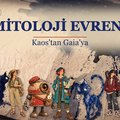
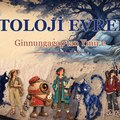
Mitoloji Evreni: Bölüm 2 (İskandinav, Ginnungagap'tan Ymir'e) eklendi

diff --git a/mitoloji-evreni.html b/mitoloji-evreni.html
@@ -4,15 +4,15 @@
 <meta charset="UTF-8">
 <meta name="viewport" content="width=device-width, initial-scale=1.0">
 <title>Mitoloji Evreni · YZ Film &amp; Animasyon Projeleri | UP-HB Academy</title>
-<meta name="description" content="Mitoloji Evreni: dünyanın yaratılış mitlerini sekiz rehberle anlatan animasyon dizisi. Bölüm 1, Yunan: Kaos&#x27;tan Gaia&#x27;ya.">
+<meta name="description" content="Mitoloji Evreni: dünyanın yaratılış mitlerini sekiz rehberle anlatan animasyon dizisi. Bölüm 1, Yunan: Kaos&#x27;tan Gaia&#x27;ya · Bölüm 2, İskandinav: Ginnungagap&#x27;tan Ymir&#x27;e.">
 <link rel="canonical" href="https://uphbacademy.com.tr/mitoloji-evreni.html">
 <meta property="og:type" content="website">
 <meta property="og:site_name" content="UP-HB Academy">
 <meta property="og:locale" content="tr_TR">
 <meta property="og:title" content="Mitoloji Evreni · YZ Film &amp; Animasyon Projeleri">
-<meta property="og:description" content="Mitoloji Evreni: dünyanın yaratılış mitlerini sekiz rehberle anlatan animasyon dizisi. Bölüm 1, Yunan: Kaos&#x27;tan Gaia&#x27;ya.">
+<meta property="og:description" content="Mitoloji Evreni: dünyanın yaratılış mitlerini sekiz rehberle anlatan animasyon dizisi. Bölüm 1, Yunan: Kaos&#x27;tan Gaia&#x27;ya · Bölüm 2, İskandinav: Ginnungagap&#x27;tan Ymir&#x27;e.">
 <meta property="og:url" content="https://uphbacademy.com.tr/mitoloji-evreni.html">
-<meta property="og:image" content="https://uphbacademy.com.tr/yz-film/medya/Byv0f9APOGo.jpg">
+<meta property="og:image" content="https://uphbacademy.com.tr/yz-film/medya/qik-JKSOWCc.jpg">
 <meta property="og:image:width" content="1200">
 <meta property="og:image:height" content="630">
 <meta name="twitter:card" content="summary_large_image">
@@ -88,12 +88,16 @@
     <p class="kicker">YZ Film &amp; Animasyon · Animasyon dizisi · dünya mitolojileri</p>
     <h1>Mitoloji <span class="hl">Evreni</span></h1>
     <p class="lead">Her halkın bir ilk sabahı var. Mitoloji Evreni, dünyanın yaratılış mitlerini sekiz rehberle, bir haritanın kenarından ve bir mürekkep damlasının içinden anlatan bir animasyon dizisi.</p>
-    <p class="mi-fikir">Her halkın bir ilk sabahı var.<small>Bölüm 1 · Yunan: Kaos&#x27;tan Gaia&#x27;ya</small></p>
+    <p class="mi-fikir">Her halkın bir ilk sabahı var.<small>Bölüm 1 · Yunan: Kaos&#x27;tan Gaia&#x27;ya · Bölüm 2 · İskandinav: Ginnungagap&#x27;tan Ymir&#x27;e</small></p>
     <div class="dz-kahraman serit" aria-label="Dizinin karakterleri"><p class="dz-k-baslik">Sekiz rehber</p><div class="dz-k-sira"><figure class="dz-k" title="Ada"><img src="/yz-film/karakter/ada.webp" alt="Ada" width="138" height="270" style="--h:270" loading="lazy"><figcaption>Ada</figcaption></figure><figure class="dz-k" title="Hokka"><img src="/yz-film/karakter/hokka.webp" alt="Hokka" width="251" height="182" style="--h:182" loading="lazy"><figcaption>Hokka</figcaption></figure><figure class="dz-k" title="Kaan"><img src="/yz-film/karakter/kaan.webp" alt="Kaan" width="136" height="255" style="--h:255" loading="lazy"><figcaption>Kaan</figcaption></figure><figure class="dz-k" title="Piksel"><img src="/yz-film/karakter/piksel.webp" alt="Piksel" width="134" height="146" style="--h:146" loading="lazy"><figcaption>Piksel</figcaption></figure><figure class="dz-k" title="Perihan"><img src="/yz-film/karakter/perihan.webp" alt="Perihan" width="138" height="242" style="--h:242" loading="lazy"><figcaption>Perihan</figcaption></figure><figure class="dz-k" title="Kıvılcım"><img src="/yz-film/karakter/kivilcim.webp" alt="Kıvılcım" width="134" height="158" style="--h:158" loading="lazy"><figcaption>Kıvılcım</figcaption></figure><figure class="dz-k" title="Simit"><img src="/yz-film/karakter/simit.webp" alt="Simit" width="138" height="184" style="--h:184" loading="lazy"><figcaption>Simit</figcaption></figure><figure class="dz-k" title="Defne"><img src="/yz-film/karakter/defne.webp" alt="Defne" width="132" height="320" style="--h:320" loading="lazy"><figcaption>Defne</figcaption></figure></div></div>
   </section>
 
   <section class="kit-section" id="bolumler" style="padding-top:10px">
-    <div class="mi-list tek">
+    <div class="mi-list">
+      <article class="mi-ep">
+        <a class="mi-img" href="https://www.youtube.com/watch?v=qik-JKSOWCc" target="_blank" rel="noopener" aria-label="Dünya bir devin bedeninden mi kuruldu? Ginnungagap&#x27;tan Ymir&#x27;e bölümünü YouTube'da izle"><img src="/yz-film/medya/qik-JKSOWCc.jpg" alt="Mitoloji Evreni: Dünya bir devin bedeninden mi kuruldu? Ginnungagap&#x27;tan Ymir&#x27;e" loading="lazy" width="1280" height="720"><i class="kc-play" aria-hidden="true"></i></a>
+        <div class="mi-body"><small>Bölüm 2 · İskandinav · 4 dk</small><h3>Dünya bir devin bedeninden mi kuruldu? Ginnungagap&#x27;tan Ymir&#x27;e</h3><p>Snorri&#x27;nin Düzyazı Edda&#x27;sına göre başta yalnız Ginnungagap vardı: kuzeyde Niflheim&#x27;in buzu, güneyde Múspell&#x27;in ateşi. Damlalardan ilk dev Ymir doğdu, inek Audhumla buzu yalayıp Buri&#x27;yi çıkardı; Odin, Vili ve Vé dünyayı devin bedeninden kurdu.</p><a class="mi-izle" href="https://www.youtube.com/watch?v=qik-JKSOWCc" target="_blank" rel="noopener">▶ YouTube'da izle</a></div>
+      </article>
       <article class="mi-ep">
         <a class="mi-img" href="https://www.youtube.com/watch?v=Byv0f9APOGo" target="_blank" rel="noopener" aria-label="Dünya nasıl başladı? Kaos&#x27;tan Gaia&#x27;ya bölümünü YouTube'da izle"><img src="/yz-film/medya/Byv0f9APOGo.jpg" alt="Mitoloji Evreni: Dünya nasıl başladı? Kaos&#x27;tan Gaia&#x27;ya" loading="lazy" width="1280" height="720"><i class="kc-play" aria-hidden="true"></i></a>
         <div class="mi-body"><small>Bölüm 1 · Yunan · 5 dk</small><h3>Dünya nasıl başladı? Kaos&#x27;tan Gaia&#x27;ya</h3><p>Hesiodos&#x27;un Theogonia&#x27;sına göre en başta Khaos vardı. Sonra Gaia, Tartaros ve Eros geldi; Gaia yıldızlı Uranos&#x27;u doğurdu, onlardan Titanlar doğdu ve en genç Titan Kronos sessizliği bozdu.</p><a class="mi-izle" href="https://www.youtube.com/watch?v=Byv0f9APOGo" target="_blank" rel="noopener">▶ YouTube'da izle</a></div>
